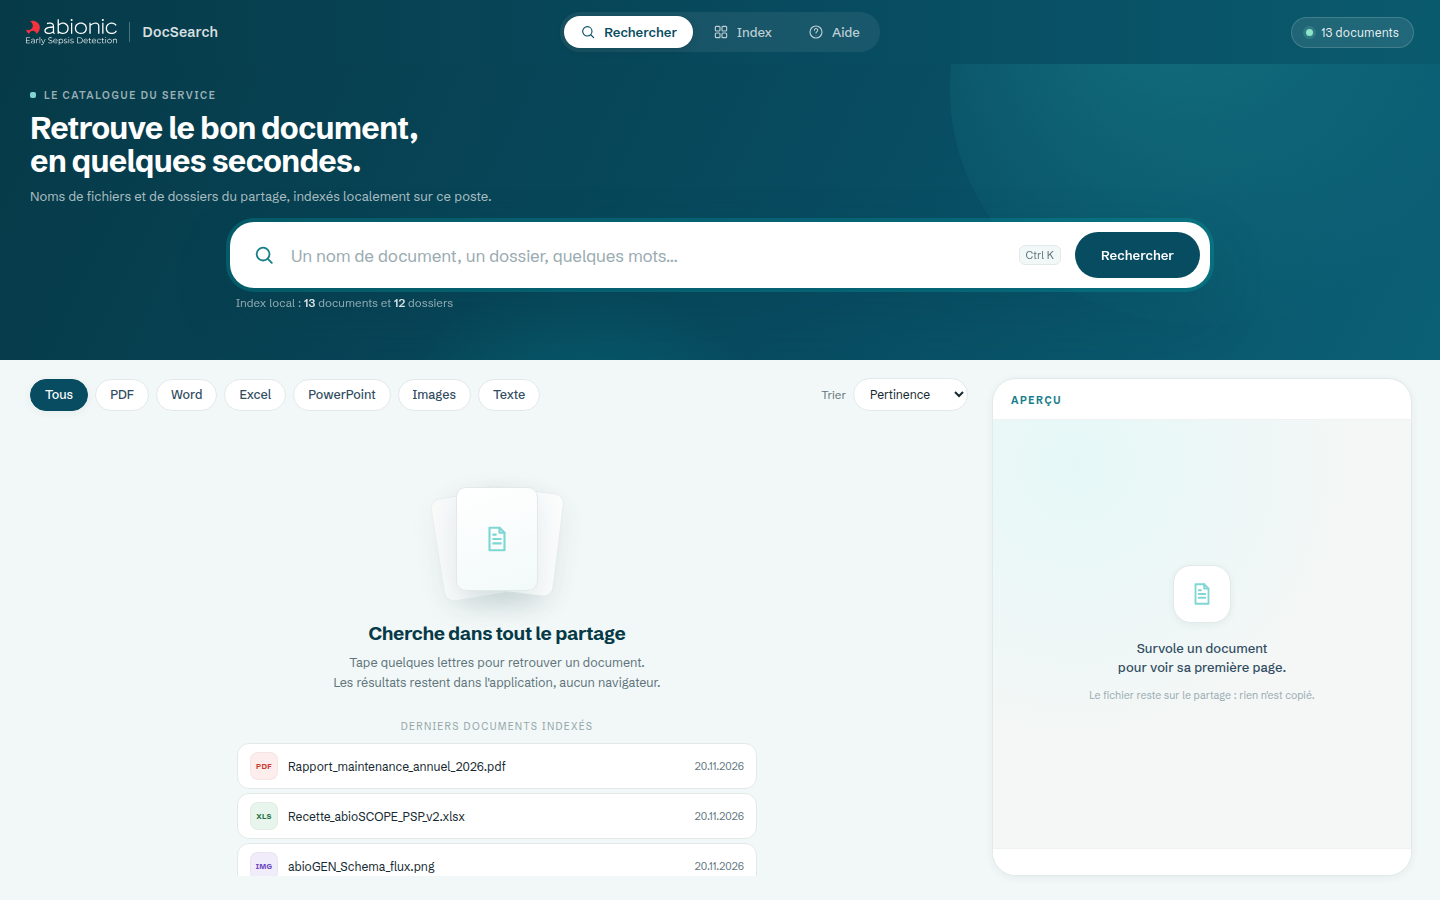
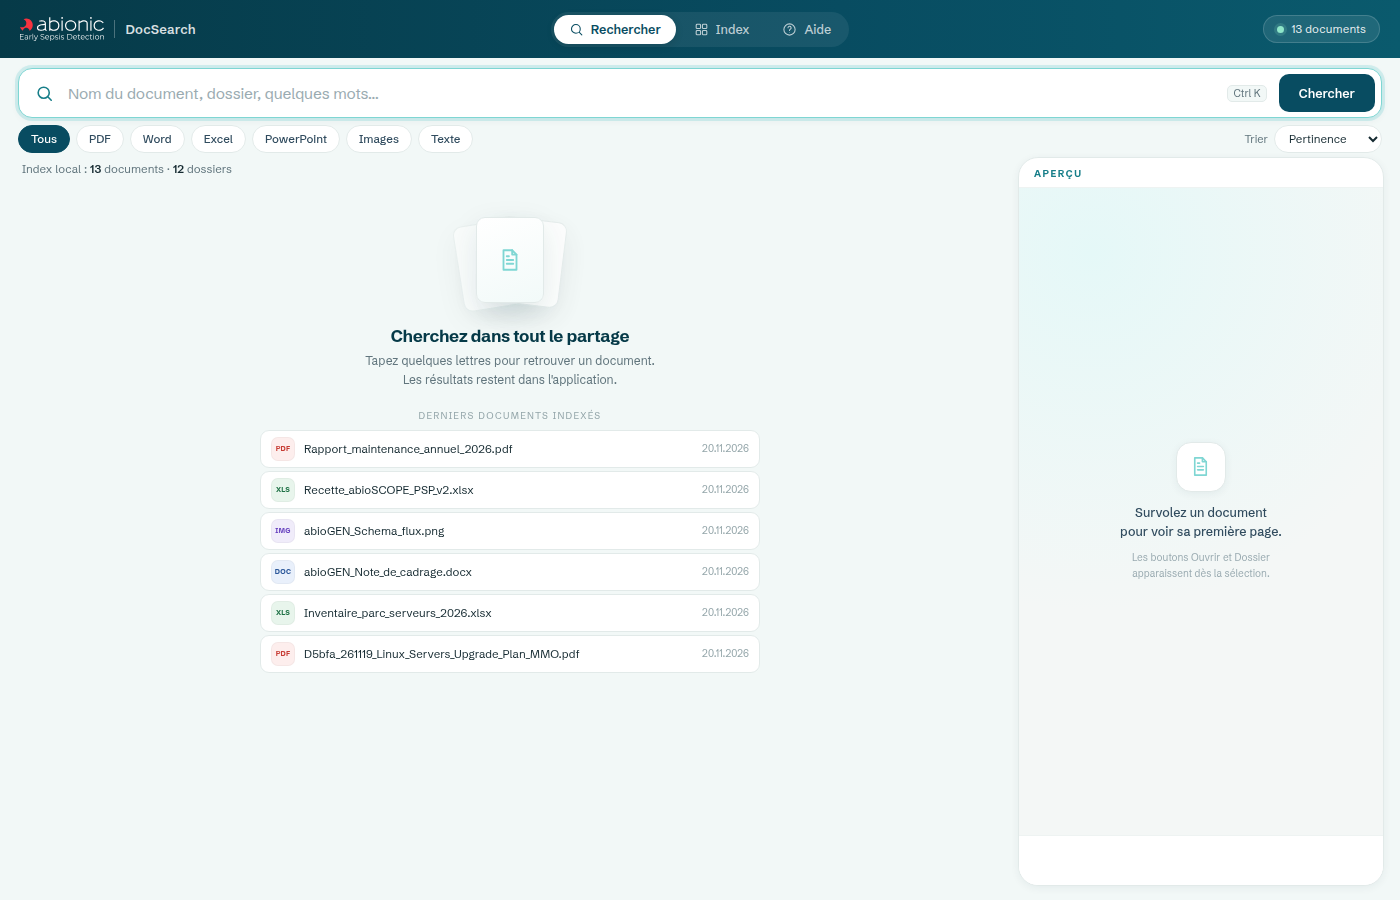
docs: met à jour le mode d'emploi et les captures

diff --git a/README.md b/README.md
@@ -13,14 +13,20 @@ une recherche instantanée.
 - **Indexe les noms** de fichiers et de dossiers d'un ou plusieurs partages
   (lecteur réseau, dossier local). Aucun document n'est ouvert pendant le
   scan : 200 000 fichiers prennent une quinzaine de secondes.
+- **Ignore par défaut** les archives (zip, rar, 7z…), les exécutables, les
+  fichiers système et temporaires, et les fichiers de verrouillage Office
+  (`~$…`). La liste est visible et modifiable dans les options avancées.
 - **Cherche en moins d'une milliseconde**, sans tenir compte des accents ni
   des majuscules, avec recherche par préfixe et par phrase entre guillemets.
   `calib` trouve `abioCALIB`, `definitif` trouve `définitif`.
 - **Prévisualise la première page au survol** :
   - PDF et images : rendu réel de la page ;
-  - Word, Excel, PowerPoint : conversion par l'Office installé sur le poste,
-    puis rendu de la page 1 ;
-  - si Office ne répond pas : reconstruction lisible à partir du texte.
+  - Word, Excel, PowerPoint : le texte s'affiche immédiatement, puis la vraie
+    page arrive dès que l'Office du poste a fini la conversion ;
+  - si Office ne répond pas : la page texte reste affichée.
+- **Résiste aux fichiers abîmés** : les DOCX dont le conteneur est incohérent
+  sont lus directement dans leur XML, les CSV/WebP sont gérés, les tableaux
+  Word, Excel et PowerPoint sont extraits.
 - **Ouvre le document** dans Office ou le lecteur PDF, affiche son dossier
   dans l'Explorateur, copie son chemin.
 - **Garde tout en local** : l'index et le cache d'aperçus restent sur le
@@ -28,12 +34,12 @@ une recherche instantanée.
 
 | Index local | Aperçu Word |
 | --- | --- |
-| ![Index](docs/ecran-index.png) | ![Aperçu](docs/ecran-apercu-word.png) |
+| ![Index](docs/ecran-index.png) | ![Aperçu](docs/ecran-apercu.png) |
 
 ## Installer
 
 1. Ouvrir la page **Releases** du dépôt.
-2. Télécharger `AbionicDocSearch-windows.zip` et le décompresser où tu veux
+2. Télécharger `AbionicDocSearch-windows.zip` et le décompresser où vous voulez
    (Bureau, `Documents`, une clé USB…).
 3. Double-cliquer `AbionicDocSearch.exe`.
 
@@ -53,7 +59,7 @@ La ligne de commande est fournie à part, dans
 ## Utiliser
 
 1. Onglet **Index** → **Ajouter un dossier** → choisir le lecteur réseau
-   (`T:\`, `\\srv-file\abioSERVER\...`) → **Lancer l'analyse**.
+   (`T:\`, `\\srv-file\abioSERVER\...`) → **Analyser maintenant**.
 2. Onglet **Rechercher** → taper un nom, un dossier ou quelques mots.
 3. Survoler un résultat pour voir la première page, double-cliquer pour ouvrir.
 
@@ -70,7 +76,8 @@ et ne relit que les noms.
 | Index | `data/index.db` |
 | Aperçus en cache | `data/previews/` |
 | Réglages | `data/config.json` |
-| Journal d'erreur | `data/crash.log` |
+| Journal de démarrage | `data/crash.log` |
+| Journal des aperçus | `data/preview.log` |
 
 Le dossier `data` est créé à côté de l'exécutable. Si ce dossier n'est pas
 inscriptible (emplacement protégé), l'application utilise
@@ -78,6 +85,24 @@ inscriptible (emplacement protégé), l'application utilise
 
 Rien n'est envoyé sur le réseau. L'application ne lit un document qu'au moment
 où tu survoles son résultat.
+
+## Fichiers ignorés
+
+Par défaut, ces fichiers ne sont jamais indexés :
+
+- archives : `.zip`, `.rar`, `.7z`, `.tar`, `.gz`, `.tgz`, `.bz2`, `.xz`,
+  `.cab`, `.iso` ;
+- exécutables et bibliothèques : `.exe`, `.msi`, `.dll`, `.sys`, `.drv`,
+  `.so`, `.bat`, `.cmd`, `.ps1`, `.vbs`, `.jar` ;
+- fichiers temporaires ou de sauvegarde : `.tmp`, `.temp`, `.bak`, `.old`,
+  `.dmp`, `.part`, `.lnk` ;
+- bases et journaux : `.db`, `.sqlite`, `.mdb`, `.log` ;
+- noms spéciaux : `Thumbs.db`, `desktop.ini`, `.DS_Store`, `~$*` (verrous
+  Office), `*.tmp`, `*.bak`.
+
+La liste complète est dans **Index → Options avancées → Fichiers ignorés**.
+Retirer une ligne puis relancer l'analyse réintègre ces fichiers. Les fichiers
+déjà indexés qui deviennent exclus sont supprimés de l'index au scan suivant.
 
 ## Ligne de commande
 
@@ -149,10 +174,15 @@ tools/          générateur de corpus, serveur de développement
 - **SQLite FTS5** avec `remove_diacritics`, index externe sur la table `docs`.
   Les noms sont aussi indexés découpés aux frontières de mots
   (`abioCALIB` → `abio CALIB`) pour que `calib` fonctionne.
-- **Aperçus** : PyMuPDF pour les pages PDF et images, automation COM
-  (`Word.Application`, `Excel.Application`, `PowerPoint.Application`) pour les
-  formats Office, avec délai maximal et repli texte. Cache sur disque indexé
-  par chemin + taille + date.
+- **Aperçus** : PyMuPDF pour les pages PDF et images (repli Pillow pour le
+  WebP), automation COM (`Word.Application`, `Excel.Application`,
+  `PowerPoint.Application`) pour les formats Office, avec délai maximal et
+  repli texte. Le DOCX est lu directement dans `word/document.xml` : ni styles
+  ni relations ne sont nécessaires. Cache disque indexé par chemin + taille +
+  date, plafonné à 800 Mo.
+- **Audit des aperçus** : `docs/rapport-apercus.md` recense 97 cas (tableaux,
+  images, PDF chiffrés, DOCX abîmés, feuilles masquées…) et les correctifs
+  associés.
 
 ## Limites connues
 
